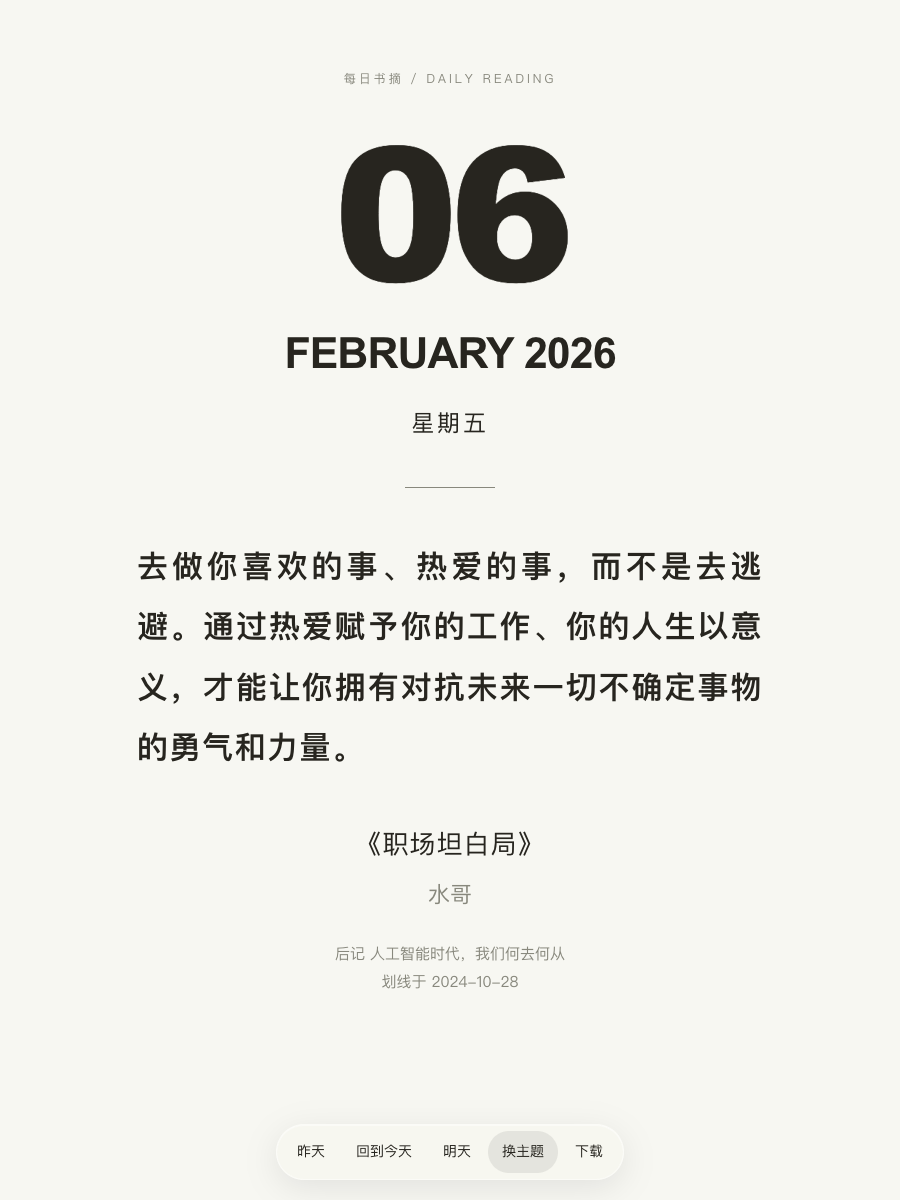
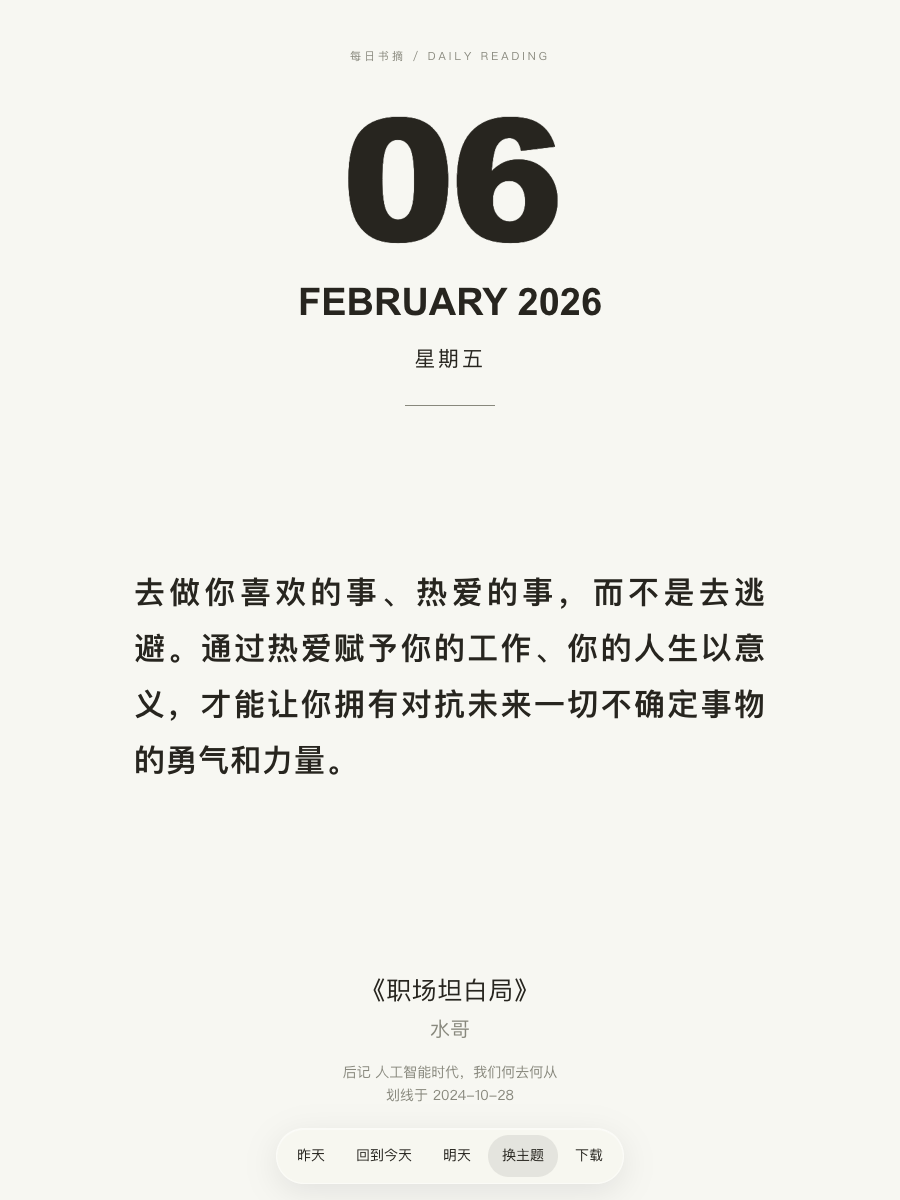
Use fixed viewport layout with adaptive excerpt spacing

diff --git a/docs/daily.js b/docs/daily.js
@@ -9,13 +9,14 @@
  const back=nav.querySelector('.calendar-today');
  const status=document.createElement('div');status.setAttribute('role','status');status.style.cssText='position:fixed;bottom:calc(96px + env(safe-area-inset-bottom,0px));left:50%;transform:translateX(-50%);z-index:21;font-size:13px;padding:9px 16px;border-radius:20px;background:var(--paper);color:var(--ink);box-shadow:0 4px 18px #0001;display:none;white-space:nowrap';document.body.append(status);let statusTimer;
  function announce(text){clearTimeout(statusTimer);status.textContent=text;status.style.display='block';statusTimer=setTimeout(()=>{status.style.display='none'},3500)}
- const download=nav.querySelector('.download-card');download.onclick=async()=>{if(download.disabled)return;const savedDate=selected,savedTheme=activeTheme;nav.querySelectorAll('button').forEach(b=>b.disabled=true);download.textContent='生成中';download.setAttribute('aria-busy','true');try{await document.fonts.ready;if(!window.htmlToImage)throw Error('export unavailable');const blob=await window.htmlToImage.toBlob(card,{pixelRatio:2,skipFonts:true,backgroundColor:getComputedStyle(document.documentElement).getPropertyValue('--paper').trim()});if(!blob)throw Error('empty image');const url=URL.createObjectURL(blob);const link=document.createElement('a');link.href=url;link.download='每日书摘-'+savedDate+'-'+savedTheme+'.png';document.body.append(link);link.click();link.remove();setTimeout(()=>URL.revokeObjectURL(url),60000);announce('已开始下载图片')}catch{announce('图片生成失败，请重试')}finally{nav.querySelectorAll('button').forEach(b=>b.disabled=false);download.textContent='下载';download.removeAttribute('aria-busy');render()}};
+ const download=nav.querySelector('.download-card');download.onclick=async()=>{if(download.disabled)return;const savedDate=selected,savedTheme=activeTheme;nav.querySelectorAll('button').forEach(b=>b.disabled=true);download.textContent='生成中';download.setAttribute('aria-busy','true');try{await document.fonts.ready;if(!window.htmlToImage)throw Error('export unavailable');const exportCard=card.cloneNode(true);exportCard.classList.add('export-card');exportCard.style.width=card.offsetWidth+'px';document.body.append(exportCard);let blob;try{blob=await window.htmlToImage.toBlob(exportCard,{style:{position:'static',inset:'auto',insetInline:'auto',insetBlock:'auto',margin:'0'},pixelRatio:2,skipFonts:true,backgroundColor:getComputedStyle(document.documentElement).getPropertyValue('--paper').trim()})}finally{exportCard.remove()}if(!blob)throw Error('empty image');const url=URL.createObjectURL(blob);const link=document.createElement('a');link.href=url;link.download='每日书摘-'+savedDate+'-'+savedTheme+'.png';document.body.append(link);link.click();link.remove();setTimeout(()=>URL.revokeObjectURL(url),60000);announce('已开始下载图片')}catch{announce('图片生成失败，请重试')}finally{nav.querySelectorAll('button').forEach(b=>b.disabled=false);download.textContent='下载';download.removeAttribute('aria-busy');render()}};
 
  let calendar,pool;try{const responses=await Promise.all([fetch(assetURL('calendar-'+year+'.json')),fetch(assetURL('highlights.json'))]);if(responses.some(r=>!r.ok))throw Error('calendar');[calendar,pool]=await Promise.all(responses.map(r=>r.json()))}catch{document.querySelector('.quote').textContent='今年的书摘日历尚未初始化，请稍后再试。';return}
  const byId=new Map(pool.map(h=>[h.book_id+':'+h.id,h]));
- function put(sel,t){const el=card.querySelector(sel);if(el)el.textContent=t}
- function resize(){try{parent.postMessage({type:'reading-card-resize',date:selected,height:document.documentElement.scrollHeight},appOrigin)}catch{}}
+ function put(sel,t){const el=card.querySelector(sel);if(!el)return;if(sel==='.quote'){const text=document.createElement('span');text.className='quote-text';text.textContent=t;el.replaceChildren(text);el.scrollTop=0;}else el.textContent=t}
+ function fitQuote(target=card){const area=target.querySelector('.quote'),text=area.querySelector('.quote-text');if(!text)return;let size=target.clientWidth>600?31:23;for(;size>16;size--){text.style.setProperty('--quote-font',size+'px');if(text.offsetHeight<=area.clientHeight-20)break}text.style.setProperty('--quote-font',size+'px');area.tabIndex=area.scrollHeight>area.clientHeight+1?0:-1;}
+ function resize(){fitQuote();try{parent.postMessage({type:'reading-card-resize',date:selected,height:document.documentElement.scrollHeight},appOrigin)}catch{}}
  function render(){nav.querySelector('.prev').disabled=selected===min;nav.querySelector('.next').disabled=selected===max;back.disabled=selected===today||today<min||today>max;const date=new Date(selected+'T12:00:00Z');put('.day',selected.slice(8));put('.month',new Intl.DateTimeFormat('en-US',{timeZone:'UTC',month:'long'}).format(date).toUpperCase()+' '+year);put('.weekday',new Intl.DateTimeFormat('zh-CN',{timeZone:'UTC',weekday:'long'}).format(date));const h=byId.get(calendar.entries[selected]?.highlight_id);put('.quote',h?h.text:'这一天暂无符合时间条件的书摘。');put('.book a',h?'《'+h.book+'》':'');put('.author',h?h.author:'');const link=card.querySelector('.book a');if(link){link.removeAttribute('href');if(h?.reader_link){try{const u=new URL(h.reader_link);if(u.protocol==='https:'&&u.hostname==='weread.qq.com')link.href=u.href}catch{}}}const detail=card.querySelector('.details');detail.replaceChildren();if(h){const p=document.createElement('p');p.textContent=h.chapter;const q=document.createElement('p');q.textContent='划线于 '+(h.highlighted_date||h.highlighted_at.slice(0,10));detail.append(p,q)}document.title=selected+' · 每日书摘';document.documentElement.dataset.highlightId=h?.id||'';document.documentElement.dataset.date=selected;const url=new URL(location.href);url.searchParams.set('date',selected);url.searchParams.set('theme',activeTheme);if(!location.href.startsWith('about:'))history.replaceState(null,'',url);resize()}
  function move(amount){const d=new Date(selected+'T00:00Z');d.setUTCDate(d.getUTCDate()+amount);const next=d.toISOString().slice(0,10);if(next>=min&&next<=max){selected=next;render()}}
- nav.querySelector('.prev').onclick=()=>move(-1);nav.querySelector('.next').onclick=()=>move(1);back.onclick=()=>{if(today>=min&&today<=max){selected=today;render()}};window.addEventListener('message',e=>{if(e.source!==parent||e.data?.type!=='set-calendar-date')return;const d=e.data.date;if(/^\d{4}-\d{2}-\d{2}$/.test(d)&&d>=min&&d<=max){selected=d;render()}});render();document.fonts.ready.then(resize);
+ nav.querySelector('.prev').onclick=()=>move(-1);nav.querySelector('.next').onclick=()=>move(1);back.onclick=()=>{if(today>=min&&today<=max){selected=today;render()}};window.addEventListener('message',e=>{if(e.source!==parent||e.data?.type!=='set-calendar-date')return;const d=e.data.date;if(/^\d{4}-\d{2}-\d{2}$/.test(d)&&d>=min&&d<=max){selected=d;render()}});window.addEventListener('resize',resize);render();document.fonts.ready.then(resize);
 })();

diff --git a/skills/weread-calendar/assets/site/daily.js b/skills/weread-calendar/assets/site/daily.js
@@ -9,13 +9,14 @@
  const back=nav.querySelector('.calendar-today');
  const status=document.createElement('div');status.setAttribute('role','status');status.style.cssText='position:fixed;bottom:calc(96px + env(safe-area-inset-bottom,0px));left:50%;transform:translateX(-50%);z-index:21;font-size:13px;padding:9px 16px;border-radius:20px;background:var(--paper);color:var(--ink);box-shadow:0 4px 18px #0001;display:none;white-space:nowrap';document.body.append(status);let statusTimer;
  function announce(text){clearTimeout(statusTimer);status.textContent=text;status.style.display='block';statusTimer=setTimeout(()=>{status.style.display='none'},3500)}
- const download=nav.querySelector('.download-card');download.onclick=async()=>{if(download.disabled)return;const savedDate=selected,savedTheme=activeTheme;nav.querySelectorAll('button').forEach(b=>b.disabled=true);download.textContent='生成中';download.setAttribute('aria-busy','true');try{await document.fonts.ready;if(!window.htmlToImage)throw Error('export unavailable');const blob=await window.htmlToImage.toBlob(card,{pixelRatio:2,skipFonts:true,backgroundColor:getComputedStyle(document.documentElement).getPropertyValue('--paper').trim()});if(!blob)throw Error('empty image');const url=URL.createObjectURL(blob);const link=document.createElement('a');link.href=url;link.download='每日书摘-'+savedDate+'-'+savedTheme+'.png';document.body.append(link);link.click();link.remove();setTimeout(()=>URL.revokeObjectURL(url),60000);announce('已开始下载图片')}catch{announce('图片生成失败，请重试')}finally{nav.querySelectorAll('button').forEach(b=>b.disabled=false);download.textContent='下载';download.removeAttribute('aria-busy');render()}};
+ const download=nav.querySelector('.download-card');download.onclick=async()=>{if(download.disabled)return;const savedDate=selected,savedTheme=activeTheme;nav.querySelectorAll('button').forEach(b=>b.disabled=true);download.textContent='生成中';download.setAttribute('aria-busy','true');try{await document.fonts.ready;if(!window.htmlToImage)throw Error('export unavailable');const exportCard=card.cloneNode(true);exportCard.classList.add('export-card');exportCard.style.width=card.offsetWidth+'px';document.body.append(exportCard);let blob;try{blob=await window.htmlToImage.toBlob(exportCard,{style:{position:'static',inset:'auto',insetInline:'auto',insetBlock:'auto',margin:'0'},pixelRatio:2,skipFonts:true,backgroundColor:getComputedStyle(document.documentElement).getPropertyValue('--paper').trim()})}finally{exportCard.remove()}if(!blob)throw Error('empty image');const url=URL.createObjectURL(blob);const link=document.createElement('a');link.href=url;link.download='每日书摘-'+savedDate+'-'+savedTheme+'.png';document.body.append(link);link.click();link.remove();setTimeout(()=>URL.revokeObjectURL(url),60000);announce('已开始下载图片')}catch{announce('图片生成失败，请重试')}finally{nav.querySelectorAll('button').forEach(b=>b.disabled=false);download.textContent='下载';download.removeAttribute('aria-busy');render()}};
 
  let calendar,pool;try{const responses=await Promise.all([fetch(assetURL('calendar-'+year+'.json')),fetch(assetURL('highlights.json'))]);if(responses.some(r=>!r.ok))throw Error('calendar');[calendar,pool]=await Promise.all(responses.map(r=>r.json()))}catch{document.querySelector('.quote').textContent='今年的书摘日历尚未初始化，请稍后再试。';return}
  const byId=new Map(pool.map(h=>[h.book_id+':'+h.id,h]));
- function put(sel,t){const el=card.querySelector(sel);if(el)el.textContent=t}
- function resize(){try{parent.postMessage({type:'reading-card-resize',date:selected,height:document.documentElement.scrollHeight},appOrigin)}catch{}}
+ function put(sel,t){const el=card.querySelector(sel);if(!el)return;if(sel==='.quote'){const text=document.createElement('span');text.className='quote-text';text.textContent=t;el.replaceChildren(text);el.scrollTop=0;}else el.textContent=t}
+ function fitQuote(target=card){const area=target.querySelector('.quote'),text=area.querySelector('.quote-text');if(!text)return;let size=target.clientWidth>600?31:23;for(;size>16;size--){text.style.setProperty('--quote-font',size+'px');if(text.offsetHeight<=area.clientHeight-20)break}text.style.setProperty('--quote-font',size+'px');area.tabIndex=area.scrollHeight>area.clientHeight+1?0:-1;}
+ function resize(){fitQuote();try{parent.postMessage({type:'reading-card-resize',date:selected,height:document.documentElement.scrollHeight},appOrigin)}catch{}}
  function render(){nav.querySelector('.prev').disabled=selected===min;nav.querySelector('.next').disabled=selected===max;back.disabled=selected===today||today<min||today>max;const date=new Date(selected+'T12:00:00Z');put('.day',selected.slice(8));put('.month',new Intl.DateTimeFormat('en-US',{timeZone:'UTC',month:'long'}).format(date).toUpperCase()+' '+year);put('.weekday',new Intl.DateTimeFormat('zh-CN',{timeZone:'UTC',weekday:'long'}).format(date));const h=byId.get(calendar.entries[selected]?.highlight_id);put('.quote',h?h.text:'这一天暂无符合时间条件的书摘。');put('.book a',h?'《'+h.book+'》':'');put('.author',h?h.author:'');const link=card.querySelector('.book a');if(link){link.removeAttribute('href');if(h?.reader_link){try{const u=new URL(h.reader_link);if(u.protocol==='https:'&&u.hostname==='weread.qq.com')link.href=u.href}catch{}}}const detail=card.querySelector('.details');detail.replaceChildren();if(h){const p=document.createElement('p');p.textContent=h.chapter;const q=document.createElement('p');q.textContent='划线于 '+(h.highlighted_date||h.highlighted_at.slice(0,10));detail.append(p,q)}document.title=selected+' · 每日书摘';document.documentElement.dataset.highlightId=h?.id||'';document.documentElement.dataset.date=selected;const url=new URL(location.href);url.searchParams.set('date',selected);url.searchParams.set('theme',activeTheme);if(!location.href.startsWith('about:'))history.replaceState(null,'',url);resize()}
  function move(amount){const d=new Date(selected+'T00:00Z');d.setUTCDate(d.getUTCDate()+amount);const next=d.toISOString().slice(0,10);if(next>=min&&next<=max){selected=next;render()}}
- nav.querySelector('.prev').onclick=()=>move(-1);nav.querySelector('.next').onclick=()=>move(1);back.onclick=()=>{if(today>=min&&today<=max){selected=today;render()}};window.addEventListener('message',e=>{if(e.source!==parent||e.data?.type!=='set-calendar-date')return;const d=e.data.date;if(/^\d{4}-\d{2}-\d{2}$/.test(d)&&d>=min&&d<=max){selected=d;render()}});render();document.fonts.ready.then(resize);
+ nav.querySelector('.prev').onclick=()=>move(-1);nav.querySelector('.next').onclick=()=>move(1);back.onclick=()=>{if(today>=min&&today<=max){selected=today;render()}};window.addEventListener('message',e=>{if(e.source!==parent||e.data?.type!=='set-calendar-date')return;const d=e.data.date;if(/^\d{4}-\d{2}-\d{2}$/.test(d)&&d>=min&&d<=max){selected=d;render()}});window.addEventListener('resize',resize);render();document.fonts.ready.then(resize);
 })();

diff --git a/docs/index.html b/docs/index.html
@@ -1,1 +1,1 @@
-<!doctype html><html lang="zh-CN"><head><meta charset="utf-8"><meta name="viewport" content="width=device-width,initial-scale=1"><title>每日书摘</title><style id="theme-style">:root{--paper:#eef2e8;--ink:#344c3c;--muted:#788b72}*{box-sizing:border-box}html,body{margin:0}body{padding:28px 20px;background:#e8e8e4;font-family:"PingFang SC","Microsoft YaHei",sans-serif;-webkit-font-smoothing:antialiased}.card{position:relative;overflow:hidden;max-width:750px;width:100%;margin:auto;padding:55px 62px 55px;text-align:center;background:var(--paper);color:var(--ink)}.label{margin:0 0 28px;font-size:12px;letter-spacing:3px;color:var(--muted)}.day{margin:0;font-family:"Arial Black",Arial,sans-serif;font-size:186px;font-weight:900;letter-spacing:-8px;line-height:1}.month{margin:25px 0 0;font-family:Arial,sans-serif;font-size:43px;font-weight:800;line-height:1.3;letter-spacing:-1px}.weekday{margin:25px 0 0;font-size:23px;letter-spacing:3px}.rule{width:90px;height:1px;border:0;background:var(--muted);margin:48px auto}.quote{margin:0;text-align:justify;font-size:31px;font-weight:600;line-height:1.95;letter-spacing:1.5px;overflow-wrap:anywhere}.source{margin-top:44px}.book{margin:0;font-size:26px;font-weight:400;line-height:1.7;letter-spacing:1px}.book a{color:inherit;text-decoration:none}.book a:hover{text-decoration:underline;text-underline-offset:5px}.author{margin:12px 0 0;color:var(--muted);font-size:22px;line-height:1.5}.details{margin-top:29px;color:var(--muted);font-size:15px;line-height:1.9}.details p{margin:0}footer{margin-top:40px;font-size:16px;letter-spacing:2px;color:var(--muted)}@media(max-width:600px){body{padding:0}.card{padding:42px 28px}.day{font-size:145px}.month{font-size:30px!important;letter-spacing:0!important}.weekday{font-size:18px}.rule{margin:35px auto}.quote{font-size:23px!important;line-height:1.95!important;letter-spacing:1px!important}.book{font-size:22px}.author{font-size:19px}.details{font-size:13px}.label{margin-bottom:25px}}.card{background:radial-gradient(ellipse at 100% 0,#d8e3cd 0,transparent 46%),#eef2e8}.day{color:#66815b}.quote{font-family:"Songti SC","STSong",serif;font-weight:500}.rule{background:#879c7b}.source{border-top:1px solid #bac8ae;padding-top:30px}.label{color:#66815b}</style><meta name="description" content="精选 100 条真实阅读划线，五种主题，每天重遇一句读过的话。"></head><body><main class="card"><p class="label">每日书摘 / DAILY READING</p><header><p class="day">—</p><p class="month">DAILY READING</p><p class="weekday"></p></header><hr class="rule"><blockquote class="quote">正在载入你的书摘…</blockquote><section class="source"><h1 class="book"><a target="_blank" rel="noopener noreferrer">个人书摘</a></h1><p class="author"></p><div class="details"></div></section></main><p class="public-note" style="max-width:750px;margin:0 auto;padding:12px 20px;text-align:center;font-size:12px;line-height:1.8;color:var(--muted)">公开体验 · 精选 100 条真实书摘，全年轮换重读 · 五种主题可切换</p><script src="./vendor/html-to-image-1.11.13.js"></script><script src="./themes.js"></script><script src="./daily.js"></script></body></html>
+<!doctype html><html lang="zh-CN"><head><meta charset="utf-8"><meta name="viewport" content="width=device-width,initial-scale=1"><title>每日书摘</title><style id="theme-style">:root{--paper:#eef2e8;--ink:#344c3c;--muted:#788b72}*{box-sizing:border-box}html,body{margin:0}body{padding:28px 20px;background:#e8e8e4;font-family:"PingFang SC","Microsoft YaHei",sans-serif;-webkit-font-smoothing:antialiased}.card{position:relative;overflow:hidden;max-width:750px;width:100%;margin:auto;padding:55px 62px 55px;text-align:center;background:var(--paper);color:var(--ink)}.label{margin:0 0 28px;font-size:12px;letter-spacing:3px;color:var(--muted)}.day{margin:0;font-family:"Arial Black",Arial,sans-serif;font-size:186px;font-weight:900;letter-spacing:-8px;line-height:1}.month{margin:25px 0 0;font-family:Arial,sans-serif;font-size:43px;font-weight:800;line-height:1.3;letter-spacing:-1px}.weekday{margin:25px 0 0;font-size:23px;letter-spacing:3px}.rule{width:90px;height:1px;border:0;background:var(--muted);margin:48px auto}.quote{margin:0;text-align:justify;font-size:31px;font-weight:600;line-height:1.95;letter-spacing:1.5px;overflow-wrap:anywhere}.source{margin-top:44px}.book{margin:0;font-size:26px;font-weight:400;line-height:1.7;letter-spacing:1px}.book a{color:inherit;text-decoration:none}.book a:hover{text-decoration:underline;text-underline-offset:5px}.author{margin:12px 0 0;color:var(--muted);font-size:22px;line-height:1.5}.details{margin-top:29px;color:var(--muted);font-size:15px;line-height:1.9}.details p{margin:0}footer{margin-top:40px;font-size:16px;letter-spacing:2px;color:var(--muted)}@media(max-width:600px){body{padding:0}.card{padding:42px 28px}.day{font-size:145px}.month{font-size:30px!important;letter-spacing:0!important}.weekday{font-size:18px}.rule{margin:35px auto}.quote{font-size:23px!important;line-height:1.95!important;letter-spacing:1px!important}.book{font-size:22px}.author{font-size:19px}.details{font-size:13px}.label{margin-bottom:25px}}.card{background:radial-gradient(ellipse at 100% 0,#d8e3cd 0,transparent 46%),#eef2e8}.day{color:#66815b}.quote{font-family:"Songti SC","STSong",serif;font-weight:500}.rule{background:#879c7b}.source{border-top:1px solid #bac8ae;padding-top:30px}.label{color:#66815b}</style><meta name="description" content="精选 100 条真实阅读划线，五种主题，每天重遇一句读过的话。"><link rel="stylesheet" href="./layout.css"></head><body><main class="card"><p class="label">每日书摘 / DAILY READING</p><header><p class="day">—</p><p class="month">DAILY READING</p><p class="weekday"></p></header><hr class="rule"><blockquote class="quote">正在载入你的书摘…</blockquote><section class="source"><h1 class="book"><a target="_blank" rel="noopener noreferrer">个人书摘</a></h1><p class="author"></p><div class="details"></div></section></main><p class="public-note" style="max-width:750px;margin:0 auto;padding:12px 20px;text-align:center;font-size:12px;line-height:1.8;color:var(--muted)">公开体验 · 精选 100 条真实书摘，全年轮换重读 · 五种主题可切换</p><script src="./vendor/html-to-image-1.11.13.js"></script><script src="./themes.js"></script><script src="./daily.js"></script></body></html>

diff --git a/skills/weread-calendar/assets/site/index.html b/skills/weread-calendar/assets/site/index.html
@@ -1,1 +1,1 @@
-<!doctype html><html lang="zh-CN"><head><meta charset="utf-8"><meta name="viewport" content="width=device-width,initial-scale=1"><title>每日书摘</title><style id="theme-style">:root{--paper:#eef2e8;--ink:#344c3c;--muted:#788b72}*{box-sizing:border-box}html,body{margin:0}body{padding:28px 20px;background:#e8e8e4;font-family:"PingFang SC","Microsoft YaHei",sans-serif;-webkit-font-smoothing:antialiased}.card{position:relative;overflow:hidden;max-width:750px;width:100%;margin:auto;padding:55px 62px 55px;text-align:center;background:var(--paper);color:var(--ink)}.label{margin:0 0 28px;font-size:12px;letter-spacing:3px;color:var(--muted)}.day{margin:0;font-family:"Arial Black",Arial,sans-serif;font-size:186px;font-weight:900;letter-spacing:-8px;line-height:1}.month{margin:25px 0 0;font-family:Arial,sans-serif;font-size:43px;font-weight:800;line-height:1.3;letter-spacing:-1px}.weekday{margin:25px 0 0;font-size:23px;letter-spacing:3px}.rule{width:90px;height:1px;border:0;background:var(--muted);margin:48px auto}.quote{margin:0;text-align:justify;font-size:31px;font-weight:600;line-height:1.95;letter-spacing:1.5px;overflow-wrap:anywhere}.source{margin-top:44px}.book{margin:0;font-size:26px;font-weight:400;line-height:1.7;letter-spacing:1px}.book a{color:inherit;text-decoration:none}.book a:hover{text-decoration:underline;text-underline-offset:5px}.author{margin:12px 0 0;color:var(--muted);font-size:22px;line-height:1.5}.details{margin-top:29px;color:var(--muted);font-size:15px;line-height:1.9}.details p{margin:0}footer{margin-top:40px;font-size:16px;letter-spacing:2px;color:var(--muted)}@media(max-width:600px){body{padding:0}.card{padding:42px 28px}.day{font-size:145px}.month{font-size:30px!important;letter-spacing:0!important}.weekday{font-size:18px}.rule{margin:35px auto}.quote{font-size:23px!important;line-height:1.95!important;letter-spacing:1px!important}.book{font-size:22px}.author{font-size:19px}.details{font-size:13px}.label{margin-bottom:25px}}.card{background:radial-gradient(ellipse at 100% 0,#d8e3cd 0,transparent 46%),#eef2e8}.day{color:#66815b}.quote{font-family:"Songti SC","STSong",serif;font-weight:500}.rule{background:#879c7b}.source{border-top:1px solid #bac8ae;padding-top:30px}.label{color:#66815b}</style></head><body><main class="card"><p class="label">每日书摘 / DAILY READING</p><header><p class="day">—</p><p class="month">DAILY READING</p><p class="weekday"></p></header><hr class="rule"><blockquote class="quote">正在载入你的书摘…</blockquote><section class="source"><h1 class="book"><a target="_blank" rel="noopener noreferrer">个人书摘</a></h1><p class="author"></p><div class="details"></div></section></main><script src="./vendor/html-to-image-1.11.13.js"></script><script src="./themes.js"></script><script src="./daily.js"></script></body></html>
+<!doctype html><html lang="zh-CN"><head><meta charset="utf-8"><meta name="viewport" content="width=device-width,initial-scale=1"><title>每日书摘</title><style id="theme-style">:root{--paper:#eef2e8;--ink:#344c3c;--muted:#788b72}*{box-sizing:border-box}html,body{margin:0}body{padding:28px 20px;background:#e8e8e4;font-family:"PingFang SC","Microsoft YaHei",sans-serif;-webkit-font-smoothing:antialiased}.card{position:relative;overflow:hidden;max-width:750px;width:100%;margin:auto;padding:55px 62px 55px;text-align:center;background:var(--paper);color:var(--ink)}.label{margin:0 0 28px;font-size:12px;letter-spacing:3px;color:var(--muted)}.day{margin:0;font-family:"Arial Black",Arial,sans-serif;font-size:186px;font-weight:900;letter-spacing:-8px;line-height:1}.month{margin:25px 0 0;font-family:Arial,sans-serif;font-size:43px;font-weight:800;line-height:1.3;letter-spacing:-1px}.weekday{margin:25px 0 0;font-size:23px;letter-spacing:3px}.rule{width:90px;height:1px;border:0;background:var(--muted);margin:48px auto}.quote{margin:0;text-align:justify;font-size:31px;font-weight:600;line-height:1.95;letter-spacing:1.5px;overflow-wrap:anywhere}.source{margin-top:44px}.book{margin:0;font-size:26px;font-weight:400;line-height:1.7;letter-spacing:1px}.book a{color:inherit;text-decoration:none}.book a:hover{text-decoration:underline;text-underline-offset:5px}.author{margin:12px 0 0;color:var(--muted);font-size:22px;line-height:1.5}.details{margin-top:29px;color:var(--muted);font-size:15px;line-height:1.9}.details p{margin:0}footer{margin-top:40px;font-size:16px;letter-spacing:2px;color:var(--muted)}@media(max-width:600px){body{padding:0}.card{padding:42px 28px}.day{font-size:145px}.month{font-size:30px!important;letter-spacing:0!important}.weekday{font-size:18px}.rule{margin:35px auto}.quote{font-size:23px!important;line-height:1.95!important;letter-spacing:1px!important}.book{font-size:22px}.author{font-size:19px}.details{font-size:13px}.label{margin-bottom:25px}}.card{background:radial-gradient(ellipse at 100% 0,#d8e3cd 0,transparent 46%),#eef2e8}.day{color:#66815b}.quote{font-family:"Songti SC","STSong",serif;font-weight:500}.rule{background:#879c7b}.source{border-top:1px solid #bac8ae;padding-top:30px}.label{color:#66815b}</style><link rel="stylesheet" href="./layout.css"></head><body><main class="card"><p class="label">每日书摘 / DAILY READING</p><header><p class="day">—</p><p class="month">DAILY READING</p><p class="weekday"></p></header><hr class="rule"><blockquote class="quote">正在载入你的书摘…</blockquote><section class="source"><h1 class="book"><a target="_blank" rel="noopener noreferrer">个人书摘</a></h1><p class="author"></p><div class="details"></div></section></main><script src="./vendor/html-to-image-1.11.13.js"></script><script src="./themes.js"></script><script src="./daily.js"></script></body></html>

diff --git a/docs/layout.css b/docs/layout.css
@@ -1,0 +1,24 @@
+/* A stable screen-sized page: only the reading area can scroll on very small screens. */
+html,html body{height:100%;overflow:hidden}
+html body{padding:0;background:var(--paper)}
+html body .card{--card-height:100vh;--card-height:100svh;display:flex;flex-direction:column;height:var(--card-height);min-height:0;max-height:var(--card-height);padding:clamp(18px,4vh,48px) clamp(24px,6vw,62px) calc(94px + env(safe-area-inset-bottom,0px));overflow:hidden}
+html body .card>.label{flex:none;margin:0 0 clamp(10px,2vh,24px);font-size:11px;line-height:1.5}
+html body .card>header{flex:none}
+html body .card .day{font-size:clamp(70px,15vh,170px);line-height:1;letter-spacing:-5px}
+html body .card .month{font-size:clamp(20px,3.5vh,38px)!important;line-height:1.25;margin:clamp(8px,1.7vh,20px) 0 0;letter-spacing:0!important}
+html body .card .weekday{font-size:clamp(14px,2vh,21px);line-height:1.4;margin:clamp(8px,1.6vh,18px) 0 0}
+html body .card>.rule{flex:none;margin:clamp(14px,2.8vh,32px) auto;height:1px}
+html body .card>.quote{display:flex;flex-direction:column;flex:1 1 0;min-height:0;margin:0;padding:8px 5px 12px;overflow:auto;overscroll-behavior:contain;border:0;box-shadow:none;border-radius:0;background:transparent;scrollbar-width:thin}
+html body .card .quote-text{flex:none;display:block;width:100%;margin:auto 0;text-align:justify;overflow-wrap:anywhere;font-size:var(--quote-font,23px)!important;line-height:1.8!important;letter-spacing:1px;white-space:pre-line}
+html[data-theme=pop] body .card .quote-text{width:calc(100% - 8px);padding:clamp(12px,2vh,24px);background:#fff8e9;border:2px solid #4c3b97;border-radius:4px;box-shadow:6px 6px 0 #4c3b97}
+html body .card>.source{flex:none;margin-top:clamp(14px,2.4vh,28px);padding-top:clamp(12px,2vh,24px);max-height:30vh;overflow:auto;scrollbar-width:thin}
+html body .card .book{font-size:clamp(17px,2.6vh,25px);line-height:1.5;letter-spacing:.5px}
+html body .card .author{font-size:clamp(13px,1.9vh,20px);line-height:1.4;margin:6px 0 0}
+html body .card .author:empty{display:none}
+html body .card .details{font-size:clamp(11px,1.5vh,14px);line-height:1.6;margin-top:clamp(8px,1.5vh,18px)}
+html body .calendar-nav{bottom:calc(16px + env(safe-area-inset-bottom,0px))}
+html body .public-note{position:absolute!important;width:1px!important;height:1px!important;padding:0!important;overflow:hidden;clip-path:inset(50%);white-space:nowrap}
+html body .export-card{position:fixed;left:-10000px;top:0;height:auto;max-height:none;min-height:100svh;pointer-events:none}
+html body .export-card>.quote{flex:none;overflow:visible;min-height:240px}
+html body .export-card>.source{max-height:none;overflow:visible}
+@media(max-height:650px){html body .card{padding-top:14px;padding-bottom:78px}html body .card>.label{font-size:10px;margin-bottom:8px}html body .card .day{font-size:68px}html body .card .month{font-size:20px!important;margin-top:6px}html body .card .weekday{font-size:13px;margin-top:6px}html body .card>.rule{margin:12px auto}html body .card>.source{margin-top:10px;padding-top:8px}html body .card .details{margin-top:6px}html body .calendar-nav{bottom:10px}}

diff --git a/skills/weread-calendar/assets/site/layout.css b/skills/weread-calendar/assets/site/layout.css
@@ -1,0 +1,24 @@
+/* A stable screen-sized page: only the reading area can scroll on very small screens. */
+html,html body{height:100%;overflow:hidden}
+html body{padding:0;background:var(--paper)}
+html body .card{--card-height:100vh;--card-height:100svh;display:flex;flex-direction:column;height:var(--card-height);min-height:0;max-height:var(--card-height);padding:clamp(18px,4vh,48px) clamp(24px,6vw,62px) calc(94px + env(safe-area-inset-bottom,0px));overflow:hidden}
+html body .card>.label{flex:none;margin:0 0 clamp(10px,2vh,24px);font-size:11px;line-height:1.5}
+html body .card>header{flex:none}
+html body .card .day{font-size:clamp(70px,15vh,170px);line-height:1;letter-spacing:-5px}
+html body .card .month{font-size:clamp(20px,3.5vh,38px)!important;line-height:1.25;margin:clamp(8px,1.7vh,20px) 0 0;letter-spacing:0!important}
+html body .card .weekday{font-size:clamp(14px,2vh,21px);line-height:1.4;margin:clamp(8px,1.6vh,18px) 0 0}
+html body .card>.rule{flex:none;margin:clamp(14px,2.8vh,32px) auto;height:1px}
+html body .card>.quote{display:flex;flex-direction:column;flex:1 1 0;min-height:0;margin:0;padding:8px 5px 12px;overflow:auto;overscroll-behavior:contain;border:0;box-shadow:none;border-radius:0;background:transparent;scrollbar-width:thin}
+html body .card .quote-text{flex:none;display:block;width:100%;margin:auto 0;text-align:justify;overflow-wrap:anywhere;font-size:var(--quote-font,23px)!important;line-height:1.8!important;letter-spacing:1px;white-space:pre-line}
+html[data-theme=pop] body .card .quote-text{width:calc(100% - 8px);padding:clamp(12px,2vh,24px);background:#fff8e9;border:2px solid #4c3b97;border-radius:4px;box-shadow:6px 6px 0 #4c3b97}
+html body .card>.source{flex:none;margin-top:clamp(14px,2.4vh,28px);padding-top:clamp(12px,2vh,24px);max-height:30vh;overflow:auto;scrollbar-width:thin}
+html body .card .book{font-size:clamp(17px,2.6vh,25px);line-height:1.5;letter-spacing:.5px}
+html body .card .author{font-size:clamp(13px,1.9vh,20px);line-height:1.4;margin:6px 0 0}
+html body .card .author:empty{display:none}
+html body .card .details{font-size:clamp(11px,1.5vh,14px);line-height:1.6;margin-top:clamp(8px,1.5vh,18px)}
+html body .calendar-nav{bottom:calc(16px + env(safe-area-inset-bottom,0px))}
+html body .public-note{position:absolute!important;width:1px!important;height:1px!important;padding:0!important;overflow:hidden;clip-path:inset(50%);white-space:nowrap}
+html body .export-card{position:fixed;left:-10000px;top:0;height:auto;max-height:none;min-height:100svh;pointer-events:none}
+html body .export-card>.quote{flex:none;overflow:visible;min-height:240px}
+html body .export-card>.source{max-height:none;overflow:visible}
+@media(max-height:650px){html body .card{padding-top:14px;padding-bottom:78px}html body .card>.label{font-size:10px;margin-bottom:8px}html body .card .day{font-size:68px}html body .card .month{font-size:20px!important;margin-top:6px}html body .card .weekday{font-size:13px;margin-top:6px}html body .card>.rule{margin:12px auto}html body .card>.source{margin-top:10px;padding-top:8px}html body .card .details{margin-top:6px}html body .calendar-nav{bottom:10px}}

diff --git a/README.md b/README.md
@@ -4,6 +4,7 @@
 
 - 从个人微信读书划线导入，默认最多 1000 条，优先覆盖不同书籍。
 - 默认排除最近 14 天的划线；全年 365/366 天排期，尽量跨书间隔。
+- 页面背景固定贴合屏幕，短句居中留白；长句自适应字号，极小屏幕只滚动正文区域。
 - 五种主题：黑白简约、鼠尾草绿、暖杏柔粉、缤纷撞色、深蓝夜读。
 - 底部磨砂按钮：昨天、回到今天、明天、换主题、下载。
 - 下载当前卡片为高清 PNG，不包含按钮栏。
